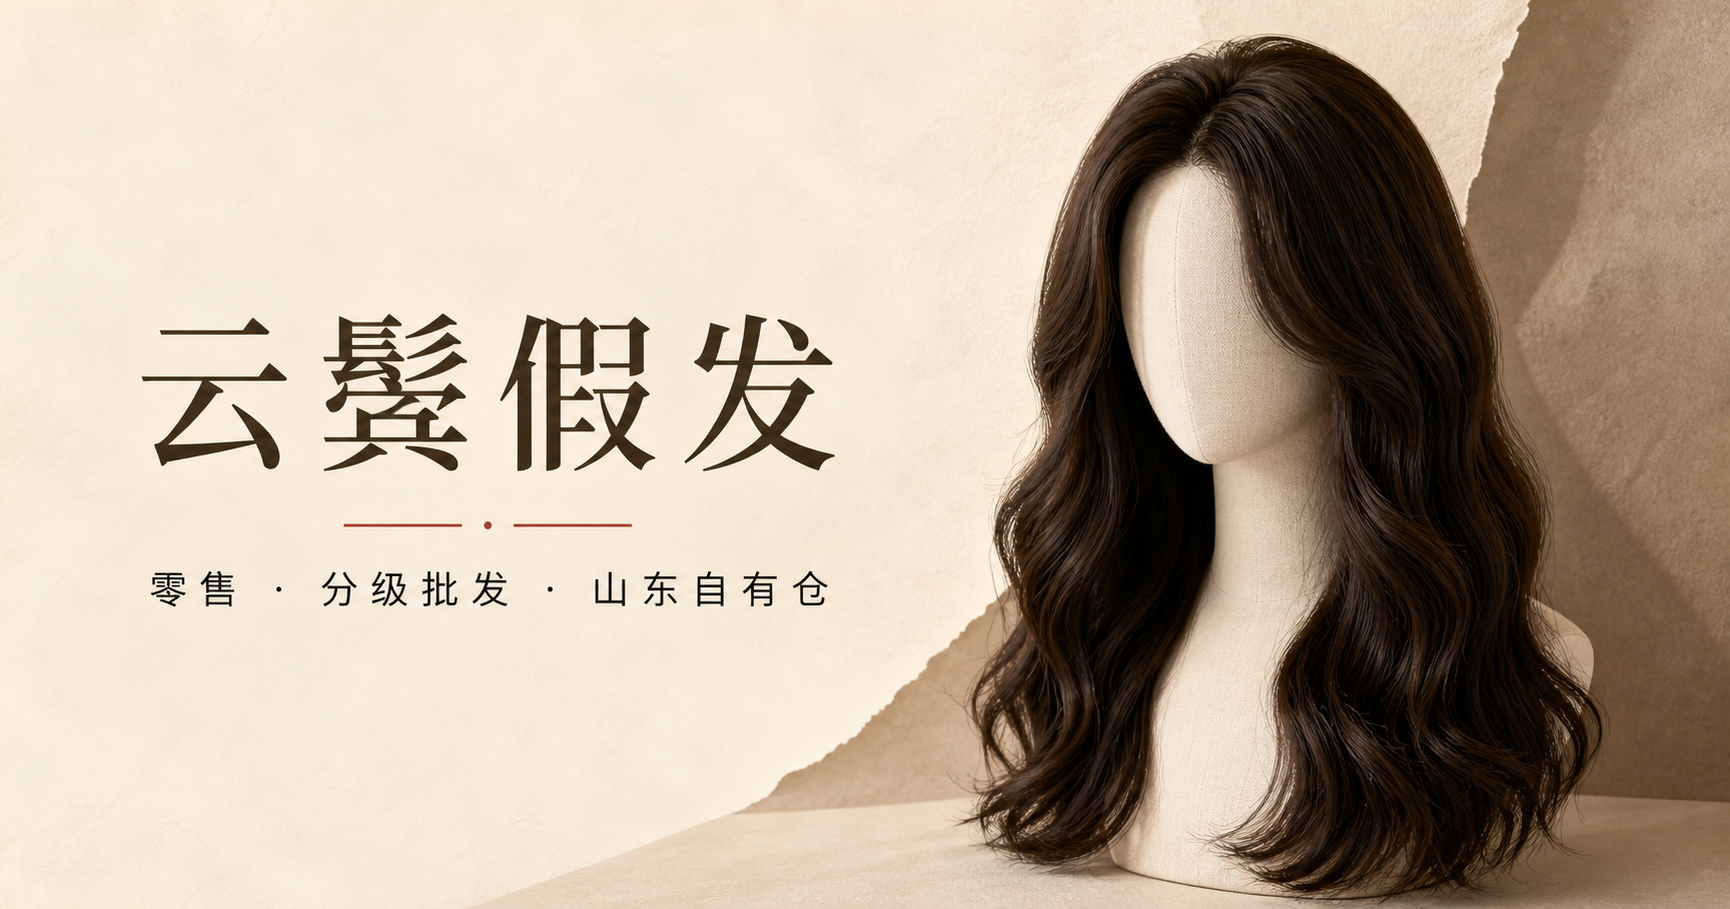
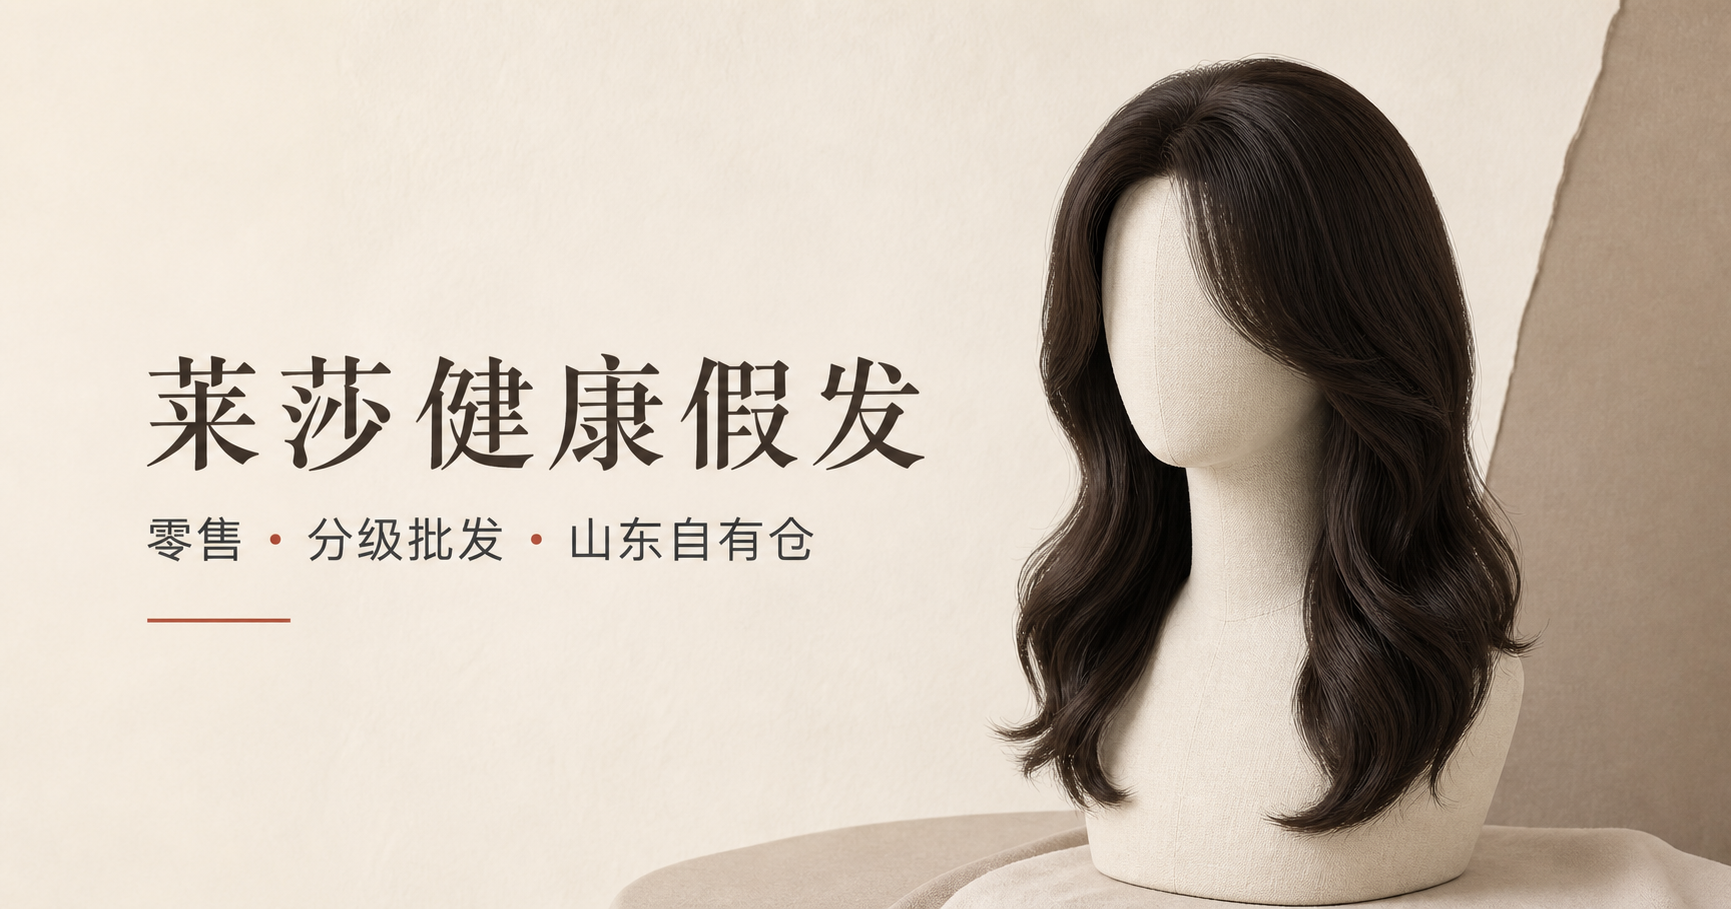
Rename brand to Laisha Health Hair

diff --git a/app/storefront.tsx b/app/storefront.tsx
@@ -24,13 +24,13 @@ export default function Storefront() {
   return (
     <main>
       <header className="site-header">
-        <a className="brand" href="#top" aria-label="云鬓假发首页"><span className="brand-mark">云</span><span>云鬓假发</span></a>
+        <a className="brand" href="#top" aria-label="莱莎健康假发首页"><span className="brand-mark">莱</span><span>莱莎健康假发</span></a>
         <nav aria-label="主导航"><a href="#products">全部款式</a><a href="#levels">批发权益</a><a href="/admin" className="admin-link">管理后台</a></nav>
       </header>
 
       <section className="hero" id="top">
         <div className="hero-copy">
-          <p className="eyebrow">YUNBIN HAIR · 2026</p>
+          <p className="eyebrow">LAISHA HEALTH HAIR · 2026</p>
           <h1>每一面，<br />都自然得恰到好处。</h1>
           <p className="hero-text">精选真人发与轻盈发网，提供零售与专业批发价格。登录不同等级账户，即可查看对应商品与专属价格。</p>
           <div className="hero-actions"><a className="button primary" href="#products">浏览本季款式</a><a className="button secondary" href="#levels">了解批发等级</a></div>

diff --git a/app/layout.tsx b/app/layout.tsx
@@ -7,12 +7,12 @@ export async function generateMetadata(): Promise<Metadata> {
   const host = requestHeaders.get("x-forwarded-host") ?? requestHeaders.get("host") ?? "localhost:3000";
   const protocol = requestHeaders.get("x-forwarded-proto") ?? (host.includes("localhost") ? "http" : "https");
   const image = `${protocol}://${host}/og.png`;
-  const title = "云鬓假发｜零售与专业批发";
-  const description = "假发零售、分级批发与销售推广一体化商城。";
+  const title = "莱莎健康假发｜零售与专业批发";
+  const description = "莱莎健康假发零售、分级批发与销售推广一体化商城。";
   return {
     title, description,
     icons: { icon: "/favicon.svg", shortcut: "/favicon.svg" },
-    openGraph: { title, description, images: [{ url: image, width: 1200, height: 630, alt: "云鬓假发" }] },
+    openGraph: { title, description, images: [{ url: image, width: 1200, height: 630, alt: "莱莎健康假发" }] },
     twitter: { card: "summary_large_image", title, description, images: [image] },
   };
 }

diff --git a/app/admin/page.tsx b/app/admin/page.tsx
@@ -67,7 +67,7 @@ export default function AdminPage() {
   return (
     <div className="admin-shell">
       <aside className="admin-sidebar">
-        <a className="brand admin-brand" href="/"><span className="brand-mark">云</span><span>云鬓管理台</span></a>
+        <a className="brand admin-brand" href="/"><span className="brand-mark">莱</span><span>莱莎管理台</span></a>
         <div className="admin-menu-label">经营管理</div>
         <button className={tab === "products" ? "selected" : ""} onClick={() => setTab("products")}><span>款</span>商品与款式</button>
         <button className={tab === "levels" ? "selected" : ""} onClick={() => setTab("levels")}><span>级</span>批发等级</button>

diff --git a/worker/index.ts b/worker/index.ts
@@ -1,4 +1,4 @@
-/** Cloudflare Worker entry point for the Yunbin Hair showroom. */
+/** Cloudflare Worker entry point for the Laisha Health Hair showroom. */
 import { handleImageOptimization, DEFAULT_DEVICE_SIZES, DEFAULT_IMAGE_SIZES } from "vinext/server/image-optimization";
 import handler from "vinext/server/app-router-entry";
 

diff --git a/README.md b/README.md
@@ -1,4 +1,4 @@
-# 云鬓假发网站演示端
+# 莱莎健康假发网站演示端
 
 包含公开店铺访问端和商品管理后台，用于确认假发零售、分级批发、商品查看权限与批发升级规则。
 
